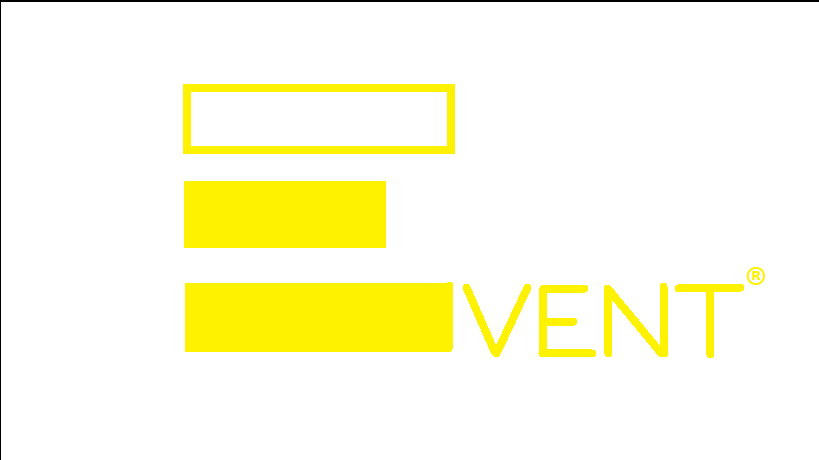
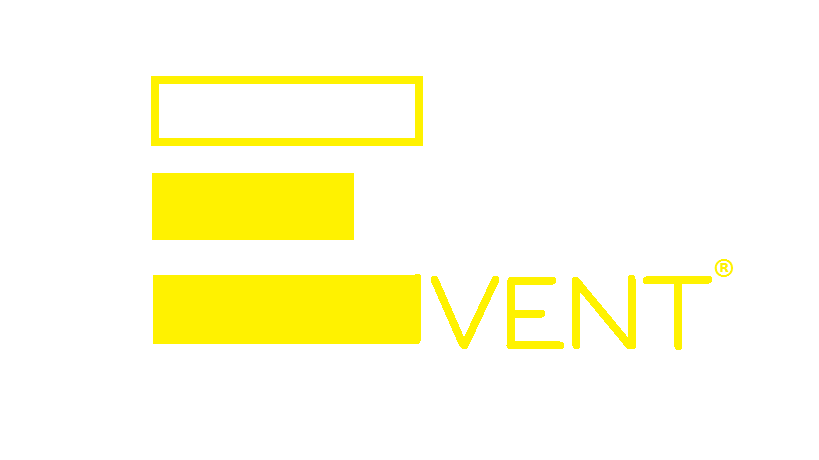
changed image and menu

diff --git a/Homepage.html b/Homepage.html
@@ -12,7 +12,7 @@
         <li class="barra"><a>|</a></li>
         <li class="other"><a href="#">about us</a></li>
         <li class="other"><a href="#">assistance</a></li>
-        <li class="event"><a href="Homepage.html">Event</a></li>
+        <li class="event"><a href="Homepage.html"><img src="Images/Immagine.png" height="80px" width="160px"></a></li>
     </ul>
     
     <h1>Search, Share, Have fun!</h1>

diff --git a/Homepage.css b/Homepage.css
@@ -23,6 +23,7 @@ h1{
 .other a {
     display: block;
     color: white;
+    margin-top: 30px;
     text-align: center;
     padding: 14px 16px;
     font-size: 18px;
@@ -30,6 +31,7 @@ h1{
     font-family: Trebuchet MS;
 }
 .barra a {
+    margin-top: 30px;
     display: block;
     color: rgb(255,204,0);
     text-align: center;
